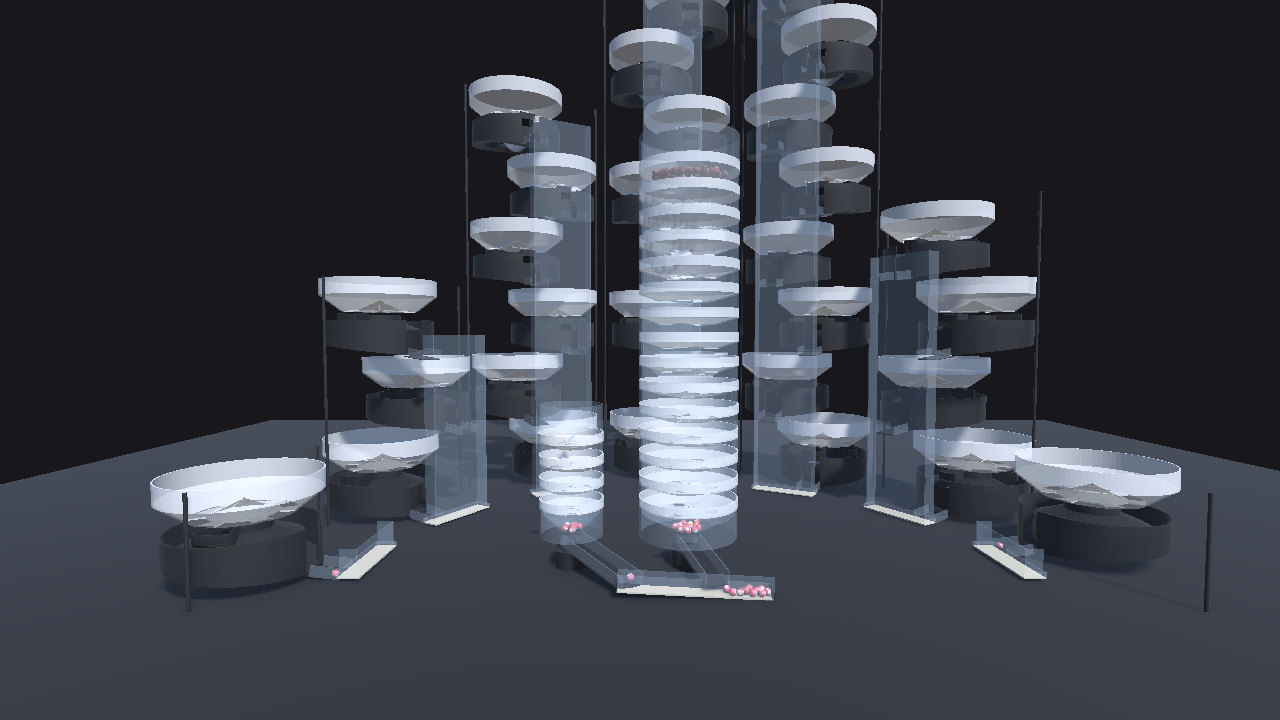
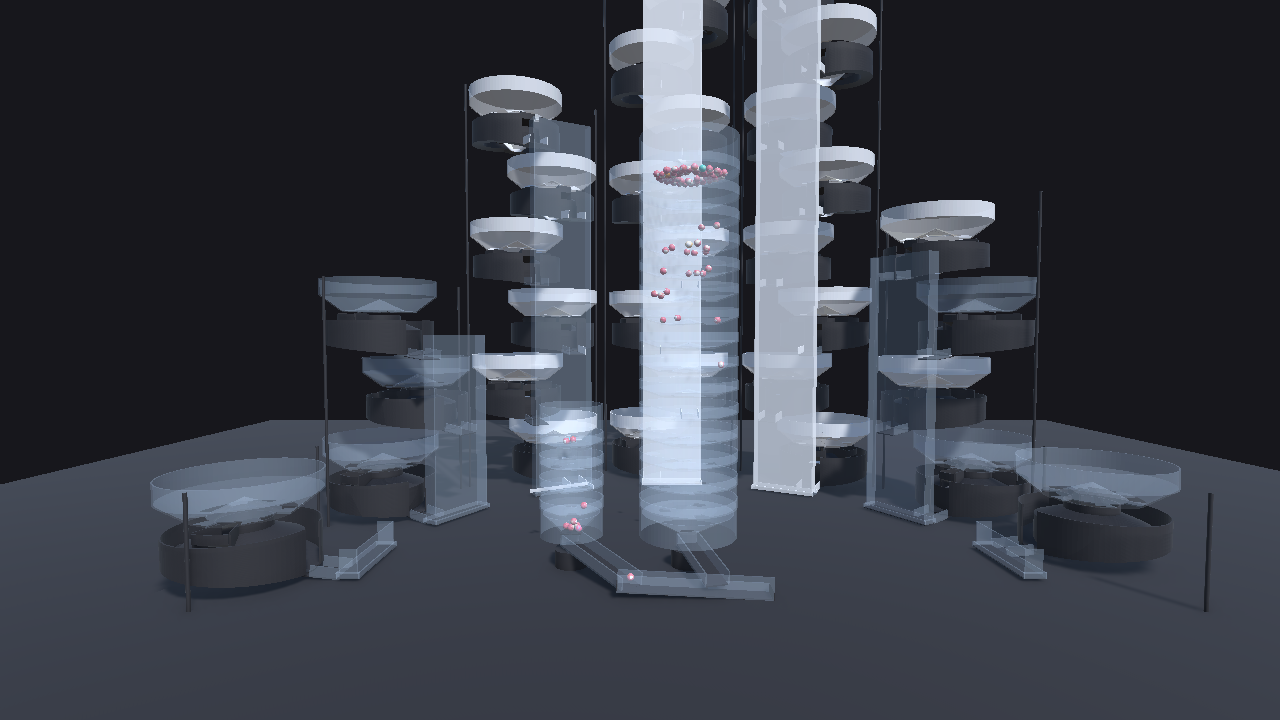
Apply numeral zero to display fonts and ball numbers

diff --git a/README.md b/README.md
@@ -109,7 +109,7 @@ Assets/Resources/          SFX/（RSC の効果音・CC BY 4.0）/ Pi_RPAsset（
 Assets/Data/               BallSkins.asset（球ごとのテクスチャ + 創作DBリンク）
 Assets/Textures/BallSkins/ ボールテクスチャ PNG（CC BY-NC 4.0）
 Assets/Materials/Generated/ ビルダーが生成するマテリアル（Glass / Frame / Rail / Bowl / Slick）
-Assets/Fonts/              PenchantManufacture.otf（HUD 用・サブモジュールから同期コピー。CJK 未収録）
+Assets/Fonts/              PenchantManufacture.otf（HUD 用。サブモジュールの PenchantManufacture-zero-numeral.otf から同期。CJK 未収録）
 BlenderSources/            gen_kuruun.py + kuruun_params.json / Kuruun.blend（抽選機）/ gen_coaster.py（螺旋樋）/ gen_gumball.py + Gumball.blend（観賞用ガムボール筐体・充填球）
 docs/                      DESIGN.md（仕様・機構の正本）/ HANDOFF.md（いまの状態）/ WATCH.md（観賞ビルドの要件）/ raspberrypi-handoff.md / captures/
 scripts/                   setup-submodule.ps1 / .sh、rpi/run-loto.sh
@@ -121,7 +121,7 @@ scripts/                   setup-submodule.ps1 / .sh、rpi/run-loto.sh
 
 | パス | リポジトリ | 用途 |
 | --- | --- | --- |
-| `LotteryBallKit/` | [radiann-kswg/LotteryBallKit](https://github.com/radiann-kswg/LotteryBallKit) | 球（`NumberBall`）。`Packages/manifest.json` が `file:` で UPM 参照。CC BY 4.0 |
+| `LotteryBallKit/` | [radiann-kswg/LotteryBallKit](https://github.com/radiann-kswg/LotteryBallKit) | 球（`NumberBall`）と numeral 形を焼いた球面番号。`Packages/manifest.json` が `file:` で UPM 参照。CC BY 4.0 |
 | `100BeautiesLab_CreationsDB/` | radiann-kswg/100BeautiesLab_CreationsDB | 創作DB（球のキャラ名・ロールプレイ正典）。非公開レコードは表示しない |
 | `PenchantManufacture_ImageAssets/` | radiann-kswg/PenchantManufacture_ImageAssets | HUD フォント |
 

diff --git a/AGENTS.md b/AGENTS.md
@@ -62,7 +62,7 @@
 
 | パス | リポジトリ | 追跡ブランチ | 用途 |
 | --- | --- | --- | --- |
-| `LotteryBallKit/` | `radiann-kswg/LotteryBallKit` | `main` | 球。`Packages/manifest.json` が `file:../LotteryBallKit/Assets/LotteryBallKit` で UPM パッケージとして読む（Unity は `Assets/` 外なので直接はインポートしない） |
+| `LotteryBallKit/` | `radiann-kswg/LotteryBallKit` | `codex/numeral-zero` | 球面番号に numeral 形を使う球。`Packages/manifest.json` が `file:../LotteryBallKit/Assets/LotteryBallKit` で UPM パッケージとして読む（Unity は `Assets/` 外なので直接はインポートしない） |
 | `100BeautiesLab_CreationsDB/` | `radiann-kswg/100BeautiesLab_CreationsDB` | `develop` | 創作DB（球のキャラスキン・表示用に将来使う）。sparse: `DataBases` / `Dictionaries` / `Images/*/corefolder` / `RoleplayPrompts` |
 | `PenchantManufacture_ImageAssets/` | `radiann-kswg/PenchantManufacture_ImageAssets` | `main` | HUD フォント。sparse: `assets/fonts`。正はサブモジュールで、`Assets/Fonts/PenchantManufacture.otf` は setup スクリプトの同期コピー（CJK 未収録。HUD 文字列は英数字のみ） |
 

diff --git a/docs/HANDOFF.md b/docs/HANDOFF.md
@@ -2,6 +2,12 @@
 
 > 読む順: `AGENTS.md`（運用・罠）→ `docs/DESIGN.md`（仕様・機構）→ 本ファイル（いまの状態と次にやること）。
 
+## HUD と球面番号のフォント（2026-11-21）
+
+抽選・ボール確認・タイトル・観賞の4シーンで `PenchantManufacture-zero-numeral.otf` を使用。`scripts/setup-submodule.ps1` と `.sh` はこのバリアントを既存の `Assets/Fonts/PenchantManufacture.otf` へ同期する。
+
+球面には `LotteryBallKit` の `NumberAtlas.png` を使う。番号 0 と 10 の倍数には同じ numeral 形を焼き込んである。
+
 ## 環境追記（2026-09-25）
 
 Codexの作業ブランチは`develop-codex`。運用の正本は`AGENTS.md` 2章・3.1節。
